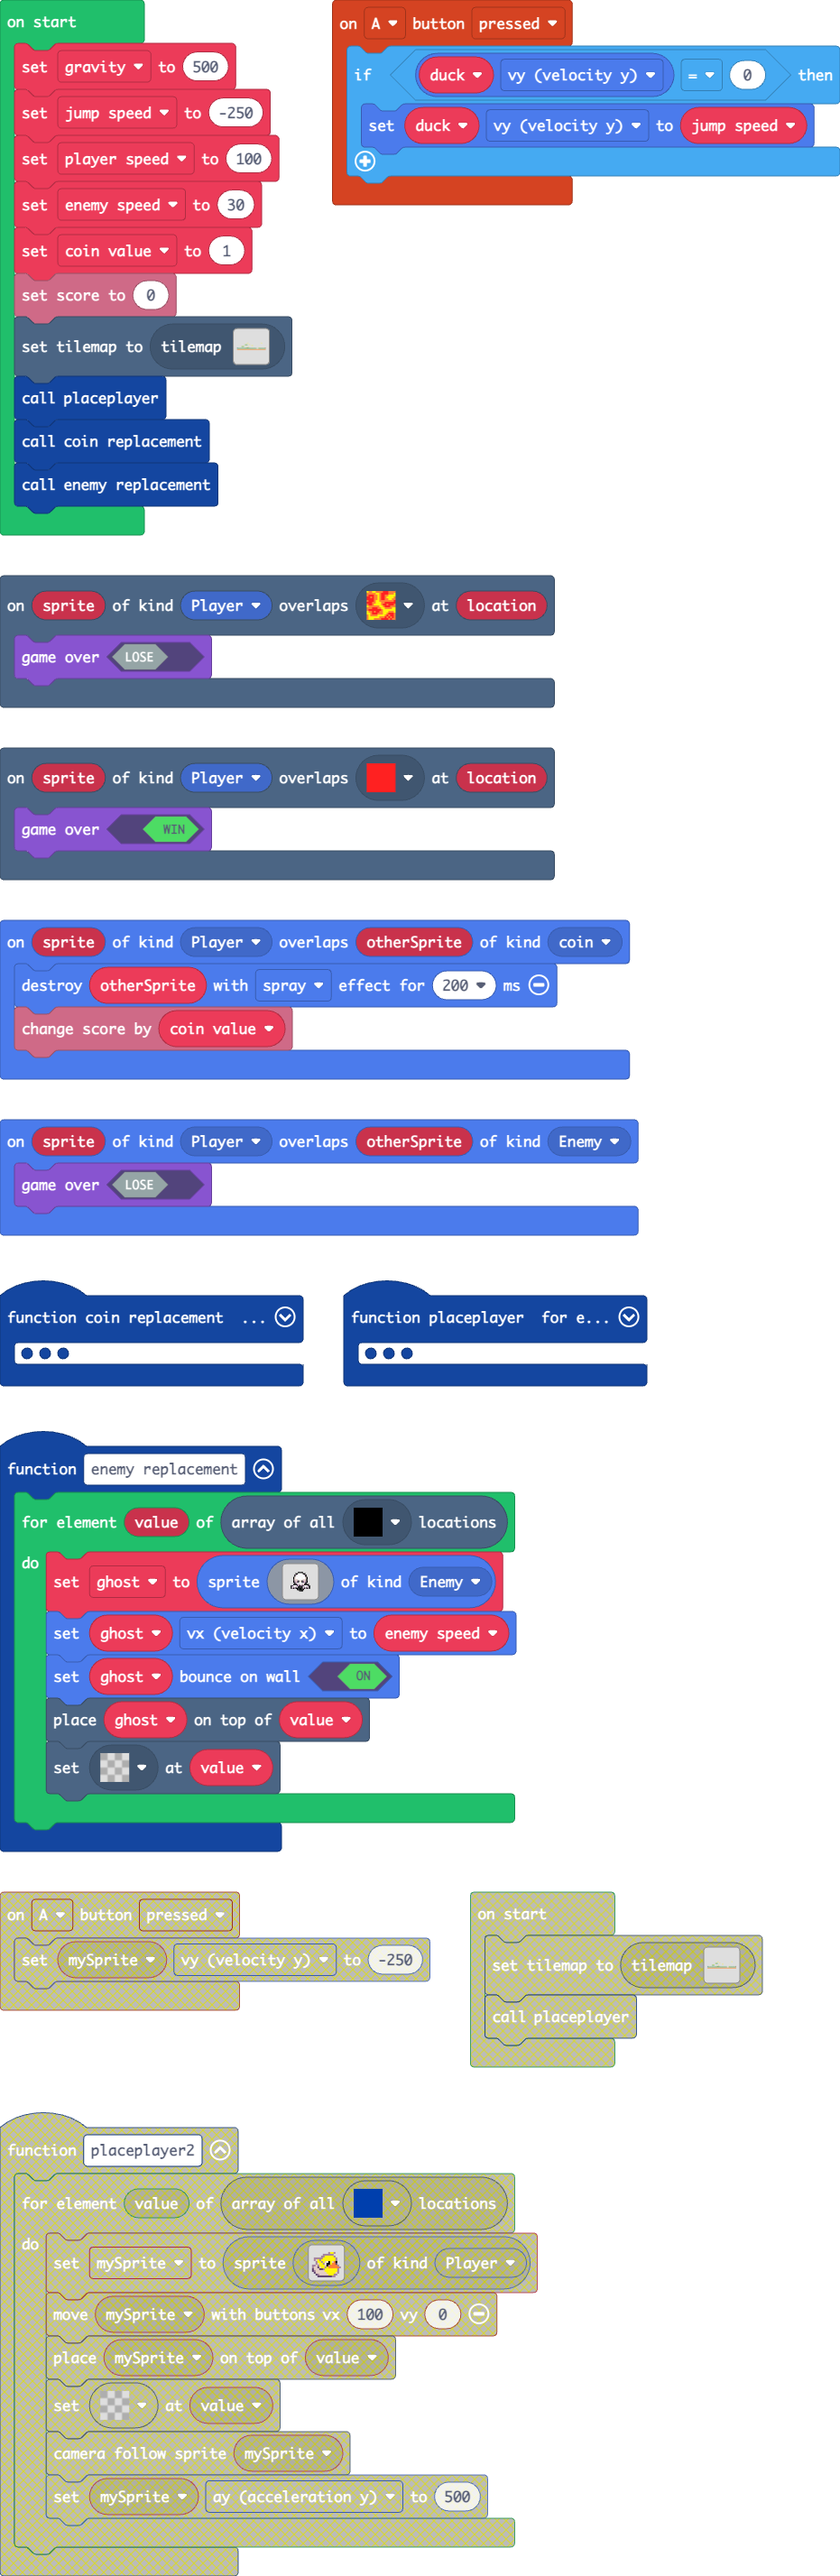
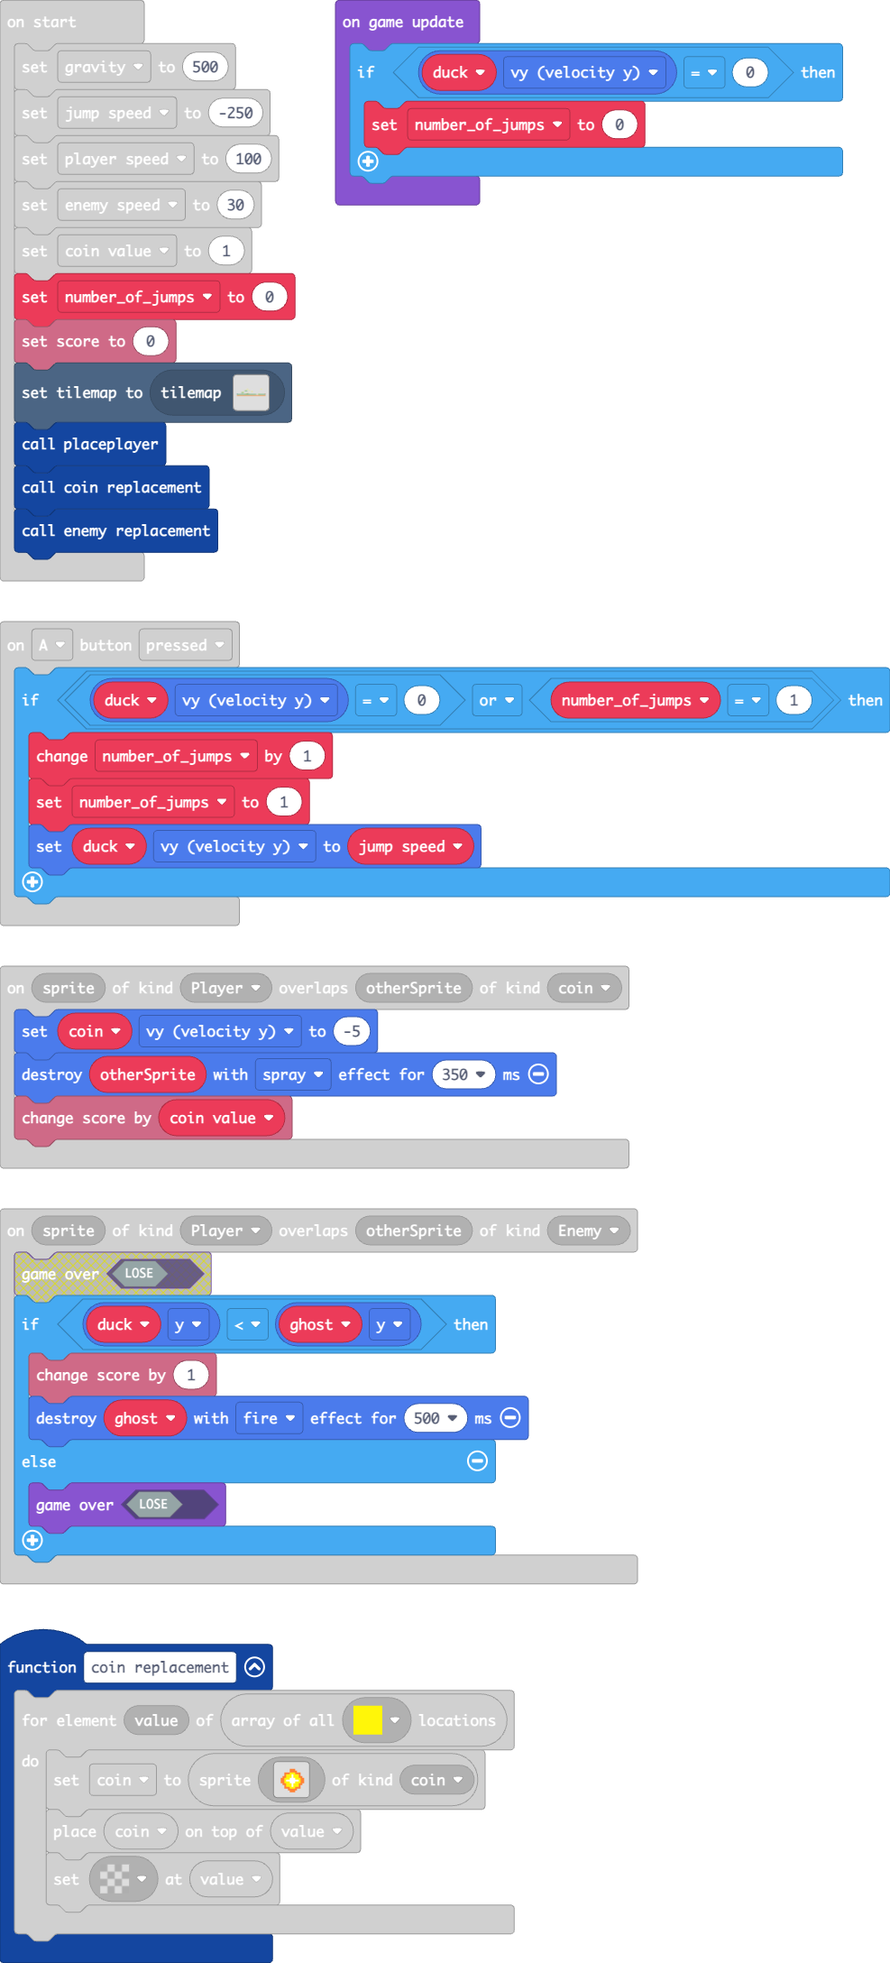
Update main.blocks, main.ts, tilemap.g.jres, tilemap.g.ts

diff --git a/main.ts b/main.ts
@@ -5,7 +5,9 @@ scene.onOverlapTile(SpriteKind.Player, assets.tile`myTile0`, function (sprite, l
     game.gameOver(true)
 })
 controller.A.onEvent(ControllerButtonEvent.Pressed, function () {
-    if (duck.vy == 0) {
+    if (duck.vy == 0 || number_of_jumps == 1) {
+        number_of_jumps += 1
+        number_of_jumps = 1
         duck.vy = jump_speed
     }
 })
@@ -74,7 +76,8 @@ scene.onOverlapTile(SpriteKind.Player, sprites.dungeon.hazardLava1, function (sp
     game.gameOver(false)
 })
 sprites.onOverlap(SpriteKind.Player, SpriteKind.coin, function (sprite, otherSprite) {
-    sprites.destroy(otherSprite, effects.spray, 200)
+    coin.vy = -5
+    sprites.destroy(otherSprite, effects.spray, 350)
     info.changeScoreBy(coin_value)
 })
 function coin_replacement () {
@@ -102,11 +105,17 @@ function coin_replacement () {
     }
 }
 sprites.onOverlap(SpriteKind.Player, SpriteKind.Enemy, function (sprite, otherSprite) {
-    game.gameOver(false)
+    if (duck.y < ghost.y) {
+        info.changeScoreBy(1)
+        sprites.destroy(ghost, effects.fire, 500)
+    } else {
+        game.gameOver(false)
+    }
 })
 let coin: Sprite = null
 let ghost: Sprite = null
 let duck: Sprite = null
+let number_of_jumps = 0
 let coin_value = 0
 let enemy_speed = 0
 let player_speed = 0
@@ -117,8 +126,14 @@ jump_speed = -250
 player_speed = 100
 enemy_speed = 30
 coin_value = 1
+number_of_jumps = 0
 info.setScore(0)
 tiles.setCurrentTilemap(tilemap`level2`)
 placeplayer()
 coin_replacement()
 enemy_replacement()
+game.onUpdate(function () {
+    if (duck.vy == 0) {
+        number_of_jumps = 0
+    }
+})

diff --git a/tilemap.g.ts b/tilemap.g.ts
@@ -66,6 +66,25 @@ namespace myTiles {
 . . . . . . . . . . . . . . . . 
 . . . . . . . . . . . . . . . . 
 `, [myTiles.transparency16], TileScale.Sixteen);
+            case "level4":
+            case "level4":return tiles.createTilemap(hex`1000100000000000000000000000000000000000000000000000000000000000000000000000000000000000000000000000000000000000000000000000000000000000000000000000000000000000000000000000000000000000000000000000000000000000000000000000000000000000000000000000000000000000000000000000000000000000000000000000000000000000000000000000000000000000000000000000000000000000000000000000000000000000000000000000000000000000000000000000000000000000000000000000000000000000000000000000000000000000000000000000000000000000000000000000000000000000`, img`
+. . . . . . . . . . . . . . . . 
+. . . . . . . . . . . . . . . . 
+. . . . . . . . . . . . . . . . 
+. . . . . . . . . . . . . . . . 
+. . . . . . . . . . . . . . . . 
+. . . . . . . . . . . . . . . . 
+. . . . . . . . . . . . . . . . 
+. . . . . . . . . . . . . . . . 
+. . . . . . . . . . . . . . . . 
+. . . . . . . . . . . . . . . . 
+. . . . . . . . . . . . . . . . 
+. . . . . . . . . . . . . . . . 
+. . . . . . . . . . . . . . . . 
+. . . . . . . . . . . . . . . . 
+. . . . . . . . . . . . . . . . 
+. . . . . . . . . . . . . . . . 
+`, [myTiles.transparency16], TileScale.Sixteen);
         }
         return null;
     })
